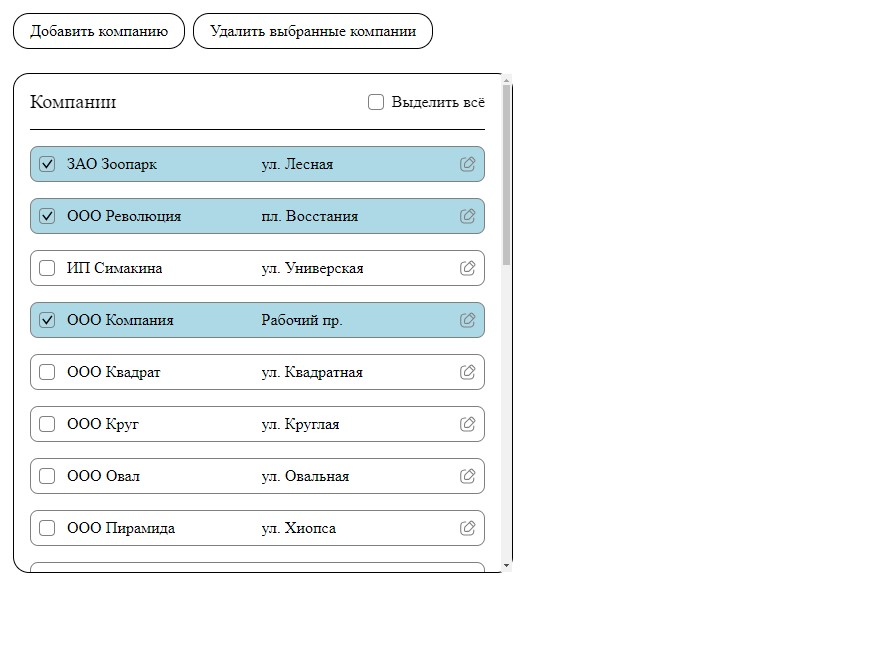
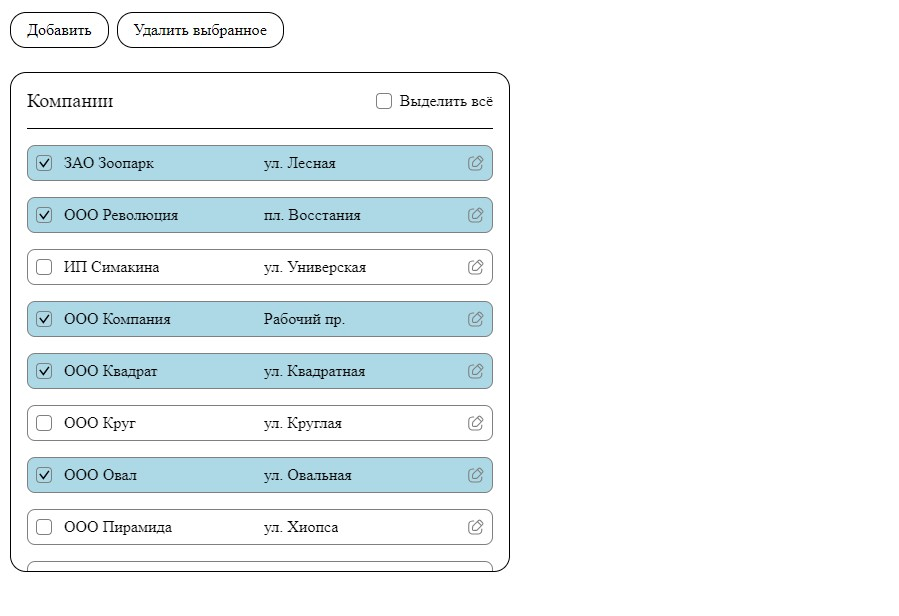
Fix bugs

Changed region(s): [[0.0, 0.0, 0.5745, 0.9253]]

diff --git a/src/widgets/components/companies-list/index.tsx b/src/widgets/components/companies-list/index.tsx
@@ -106,12 +106,12 @@ export const CompaniesList: FC = () => {
         <div className={classes.container}>
             <div className={classes.btns}>
                 <Button onClick={showModalHandler} >
-                    Добавить компанию
+                    Добавить
                 </Button>
                 {!!checkedCompaniesIds.length
                     && (
                         <Button onClick={deleteHandler}>
-                            Удалить выбранные компании
+                            Удалить выбранное
                         </Button>
                     )
                 }
@@ -119,7 +119,12 @@ export const CompaniesList: FC = () => {
 
             {companies.length
                 ? (
-                    <ul ref={listRef} className={classes.list} onScroll={loadMoreItemsHandler}>
+                    <ul
+                        ref={listRef}
+                        className={classes.list}
+                        onScroll={loadMoreItemsHandler}
+                        onTouchMove={loadMoreItemsHandler}
+                    >
                         <li className={classes.header}>
                             <h2 className={classes.title}>Компании</h2>
                             <Checkbox label={'Выделить всё'} value={isAllSelected} onCheck={selectAllHandler} />

diff --git a/README.md b/README.md
@@ -31,4 +31,4 @@
 
 Рабочая версия приложение находится по ссылке: [Test task](https://test-task-a.vercel.app/)
 
-<img src="app-preview.jpg" alt="screen" width="893"/>
+<img src="app-preview.jpg" alt="screen" width="899"/>
